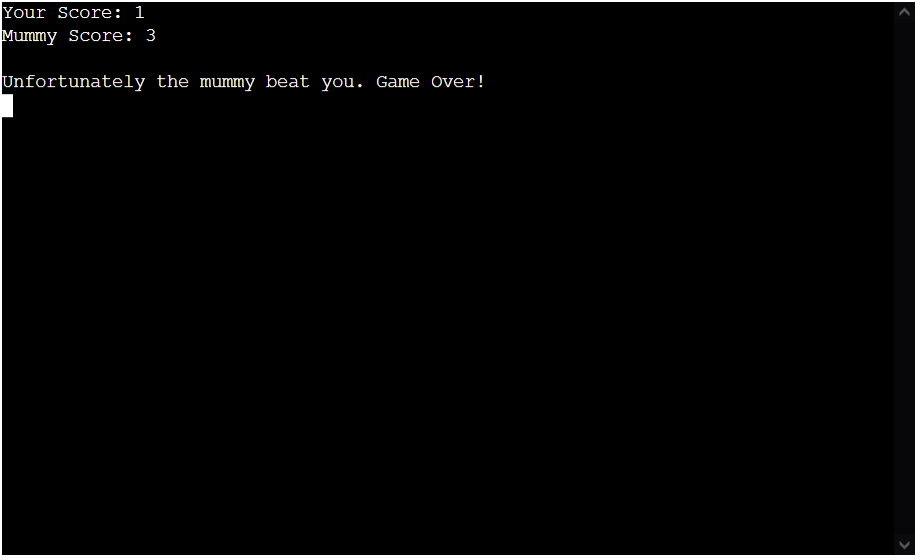
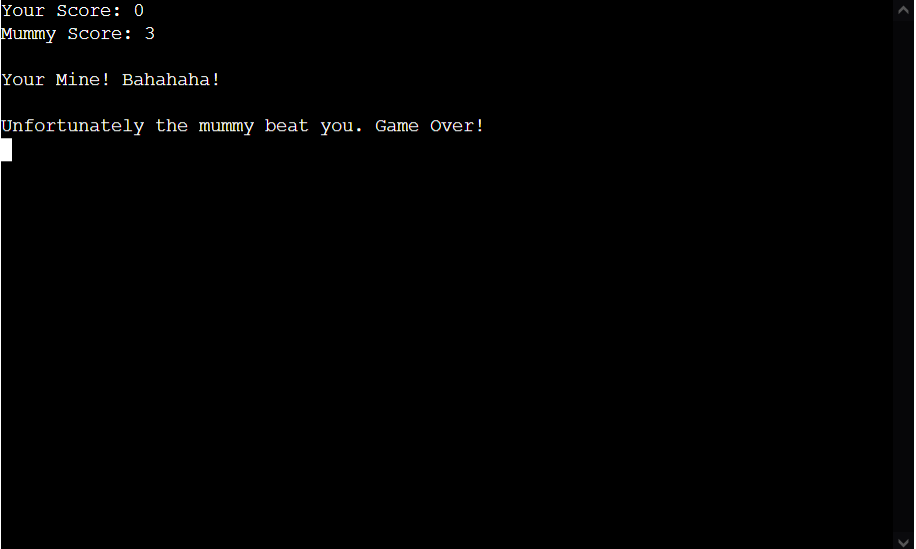
Link RPS screenshots and upload mummy wins Game

Changed region(s): [[0.0, 0.0, 1.0, 1.0], [0.0, 0.1239, 0.5197, 0.3097]]

diff --git a/README.md b/README.md
@@ -128,7 +128,7 @@ IMPORTANT: Remember to always include a screenshot of each individual feature!
 
 ![screenshot](https://github.com/ogc1231/puzzle-pyramid/blob/main/documentation/testing/yes_rope.PNG)
 
-- **Inside Pyramid - No Rope**
+- **If Rope Not Choosen**
 
     - Details about this particular feature, including the value to the site, and benefit for the user. Be as detailed as possible!
 
@@ -169,6 +169,37 @@ IMPORTANT: Remember to always include a screenshot of each individual feature!
     - Details about this particular feature, including the value to the site, and benefit for the user. Be as detailed as possible!
 
 ![screenshot](https://github.com/ogc1231/puzzle-pyramid/blob/main/documentation/testing/d2_left.PNG)
+
+- **Mummy Challenges You to Rock, Paper, Scissors**
+
+    - Details about this particular feature, including the value to the site, and benefit for the user. Be as detailed as possible!
+
+![screenshot](https://github.com/ogc1231/puzzle-pyramid/blob/main/documentation/testing/use_rope.PNG)
+
+- **Rock, Paper, Scissors - Mummy Wins Round**
+
+    - Details about this particular feature, including the value to the site, and benefit for the user. Be as detailed as possible!
+
+![screenshot](https://github.com/ogc1231/puzzle-pyramid/blob/main/documentation/testing/mummy_wins_round.PNG)
+
+- **Rock, Paper, Scissors - Player Wins Round**
+
+    - Details about this particular feature, including the value to the site, and benefit for the user. Be as detailed as possible!
+
+![screenshot](https://github.com/ogc1231/puzzle-pyramid/blob/main/documentation/testing/player_wins_round.PNG)
+
+- **Rock, Paper, Scissors - Mummy Wins Game**
+
+    - Details about this particular feature, including the value to the site, and benefit for the user. Be as detailed as possible!
+
+![screenshot](https://github.com/ogc1231/puzzle-pyramid/blob/main/documentation/testing/mummy_wins_game.PNG)
+
+- **Rock, Paper, Scissors - Player Wins Game**
+
+    - Details about this particular feature, including the value to the site, and benefit for the user. Be as detailed as possible!
+
+![screenshot](https://github.com/ogc1231/puzzle-pyramid/blob/main/documentation/testing/player_wins_game.PNG)
+
 
 
 
